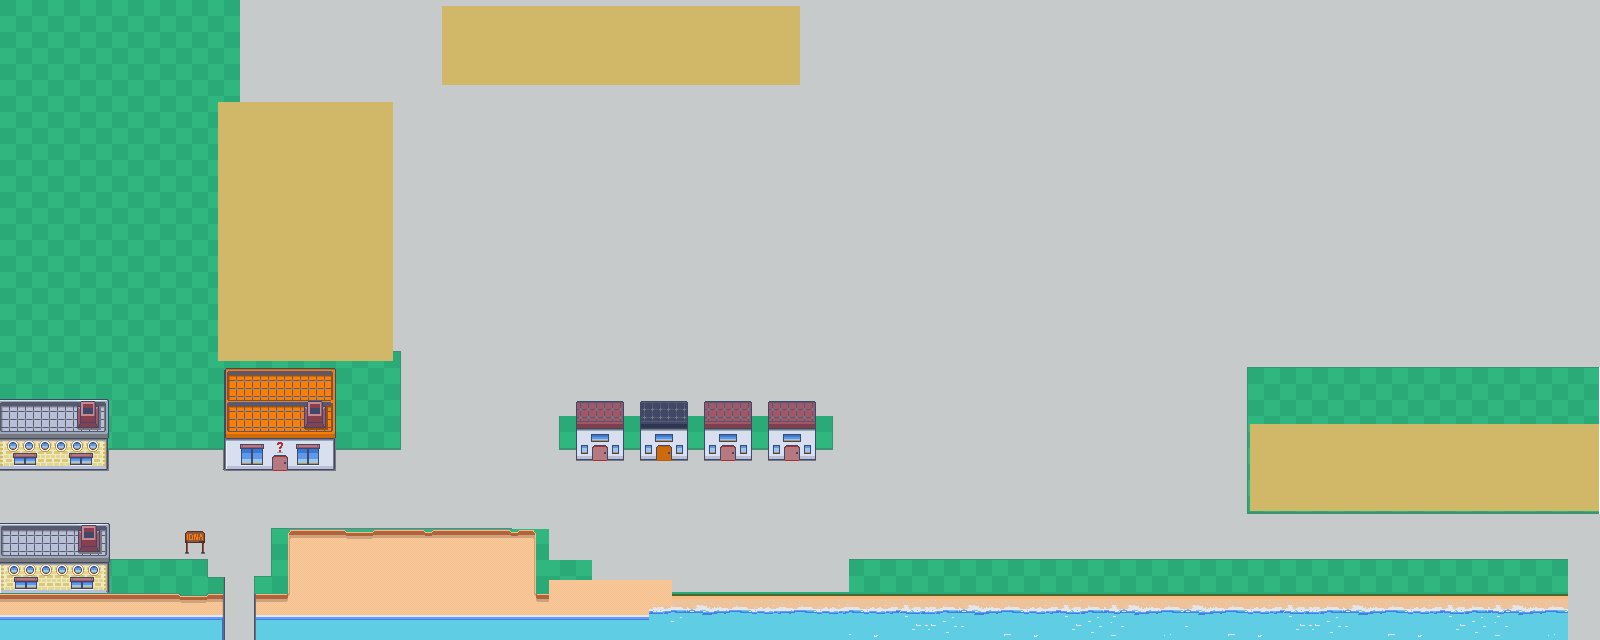
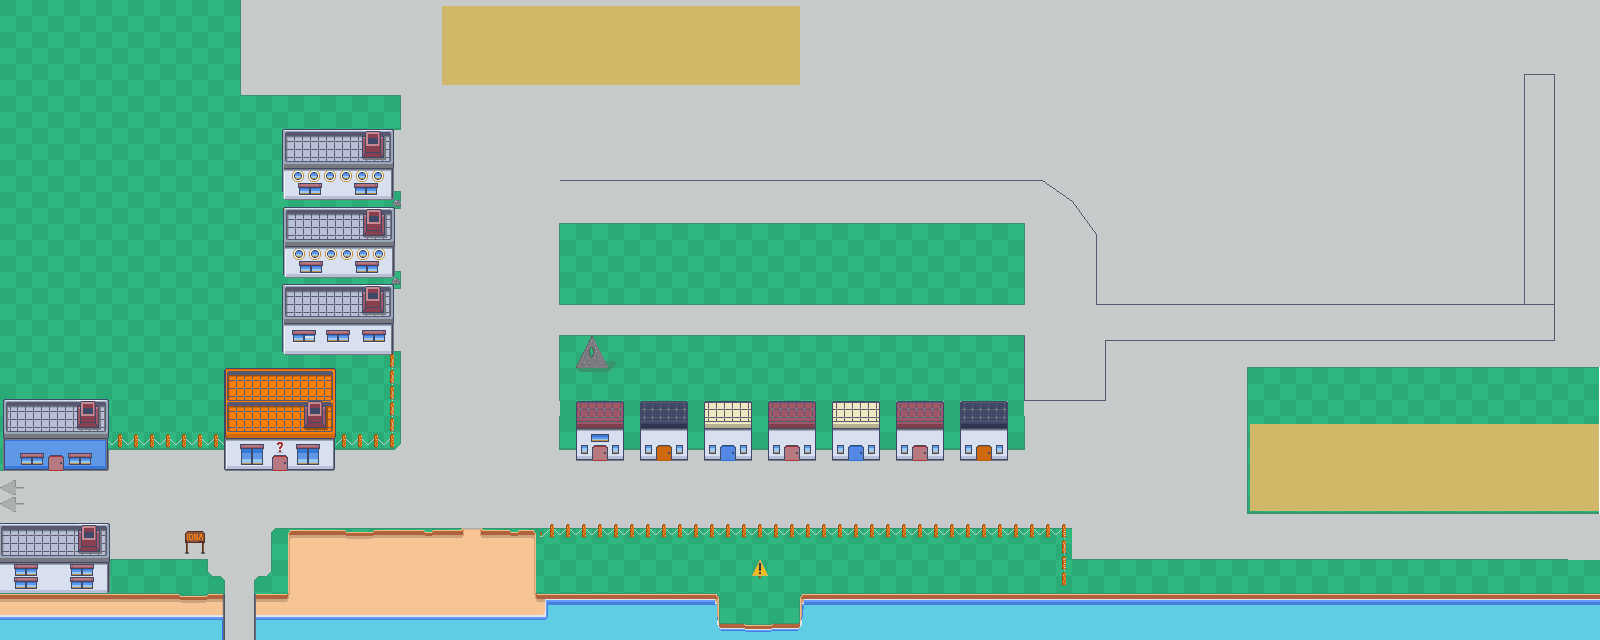
changed to fantasy map

diff --git a/OverworldMap.js b/OverworldMap.js
@@ -53,7 +53,7 @@ class OverworldMap {
 
 window.OverworldMaps = {
   DemoRoom: {
-    lowerSrc: "/PIOM/MAPS/bigBoy.png",
+    lowerSrc: "/PIOM/MAPS/bigBoy2.png",
     upperSrc: "",
 
     gameObjects: {
@@ -61,7 +61,7 @@ window.OverworldMaps = {
         isPlayerControlled: true,
         x: utils.withGrid(14),
         y: utils.withGrid(39),
-        src: "/PIOM/CHARS/mainchar2.png",
+        src: "/PIOM/CHARS/heroNew.png",
       }),
 
       npc1: new Person({
@@ -74,12 +74,6 @@ window.OverworldMaps = {
         x: utils.withGrid(22),
         y: utils.withGrid(38),
         src: "/PIOM/CHARS/fisherman.png",
-      }),
-
-      redBoat: new Person({
-        x: utils.withGrid(5),
-        y: utils.withGrid(39),
-        src: "/PIOM/MAPS/redBoat.png",
       }),
     },
     walls: {
@@ -150,7 +144,7 @@ window.OverworldMaps = {
       [utils.asGridCoord(0, 34)]: true,
       [utils.asGridCoord(0, 35)]: true,
       [utils.asGridCoord(0, 36)]: true,
-      // ^ martyr's bay building
+      // ^ building left down of bridge
       [utils.asGridCoord(6, 28)]: true,
       [utils.asGridCoord(6, 27)]: true,
       [utils.asGridCoord(6, 26)]: true,
@@ -169,11 +163,10 @@ window.OverworldMaps = {
       [utils.asGridCoord(3, 28)]: true,
       [utils.asGridCoord(4, 28)]: true,
       [utils.asGridCoord(5, 28)]: true,
-      // ^ sound of iona shop
+      // ^ shop left above ^
       [utils.asGridCoord(14, 28)]: true,
       [utils.asGridCoord(15, 28)]: true,
       [utils.asGridCoord(16, 28)]: true,
-
       [utils.asGridCoord(18, 28)]: true,
       [utils.asGridCoord(19, 28)]: true,
       [utils.asGridCoord(20, 28)]: true,
@@ -192,7 +185,7 @@ window.OverworldMaps = {
       [utils.asGridCoord(14, 25)]: true,
       [utils.asGridCoord(17, 27)]: true,
       [utils.asGridCoord(17, 26)]: true,
-      // ^ building in front of jetty
+      // ^ tavern
     },
   },
 };

diff --git a/index.html b/index.html
@@ -1,7 +1,7 @@
 <!DOCTYPE html>
 <html>
   <head>
-    <title>Project Isle of Mann</title>
+    <title>PIOM</title>
     <link href="/PIOM/style.css" type="text/css" rel="stylesheet" />
   </head>
   <body>
